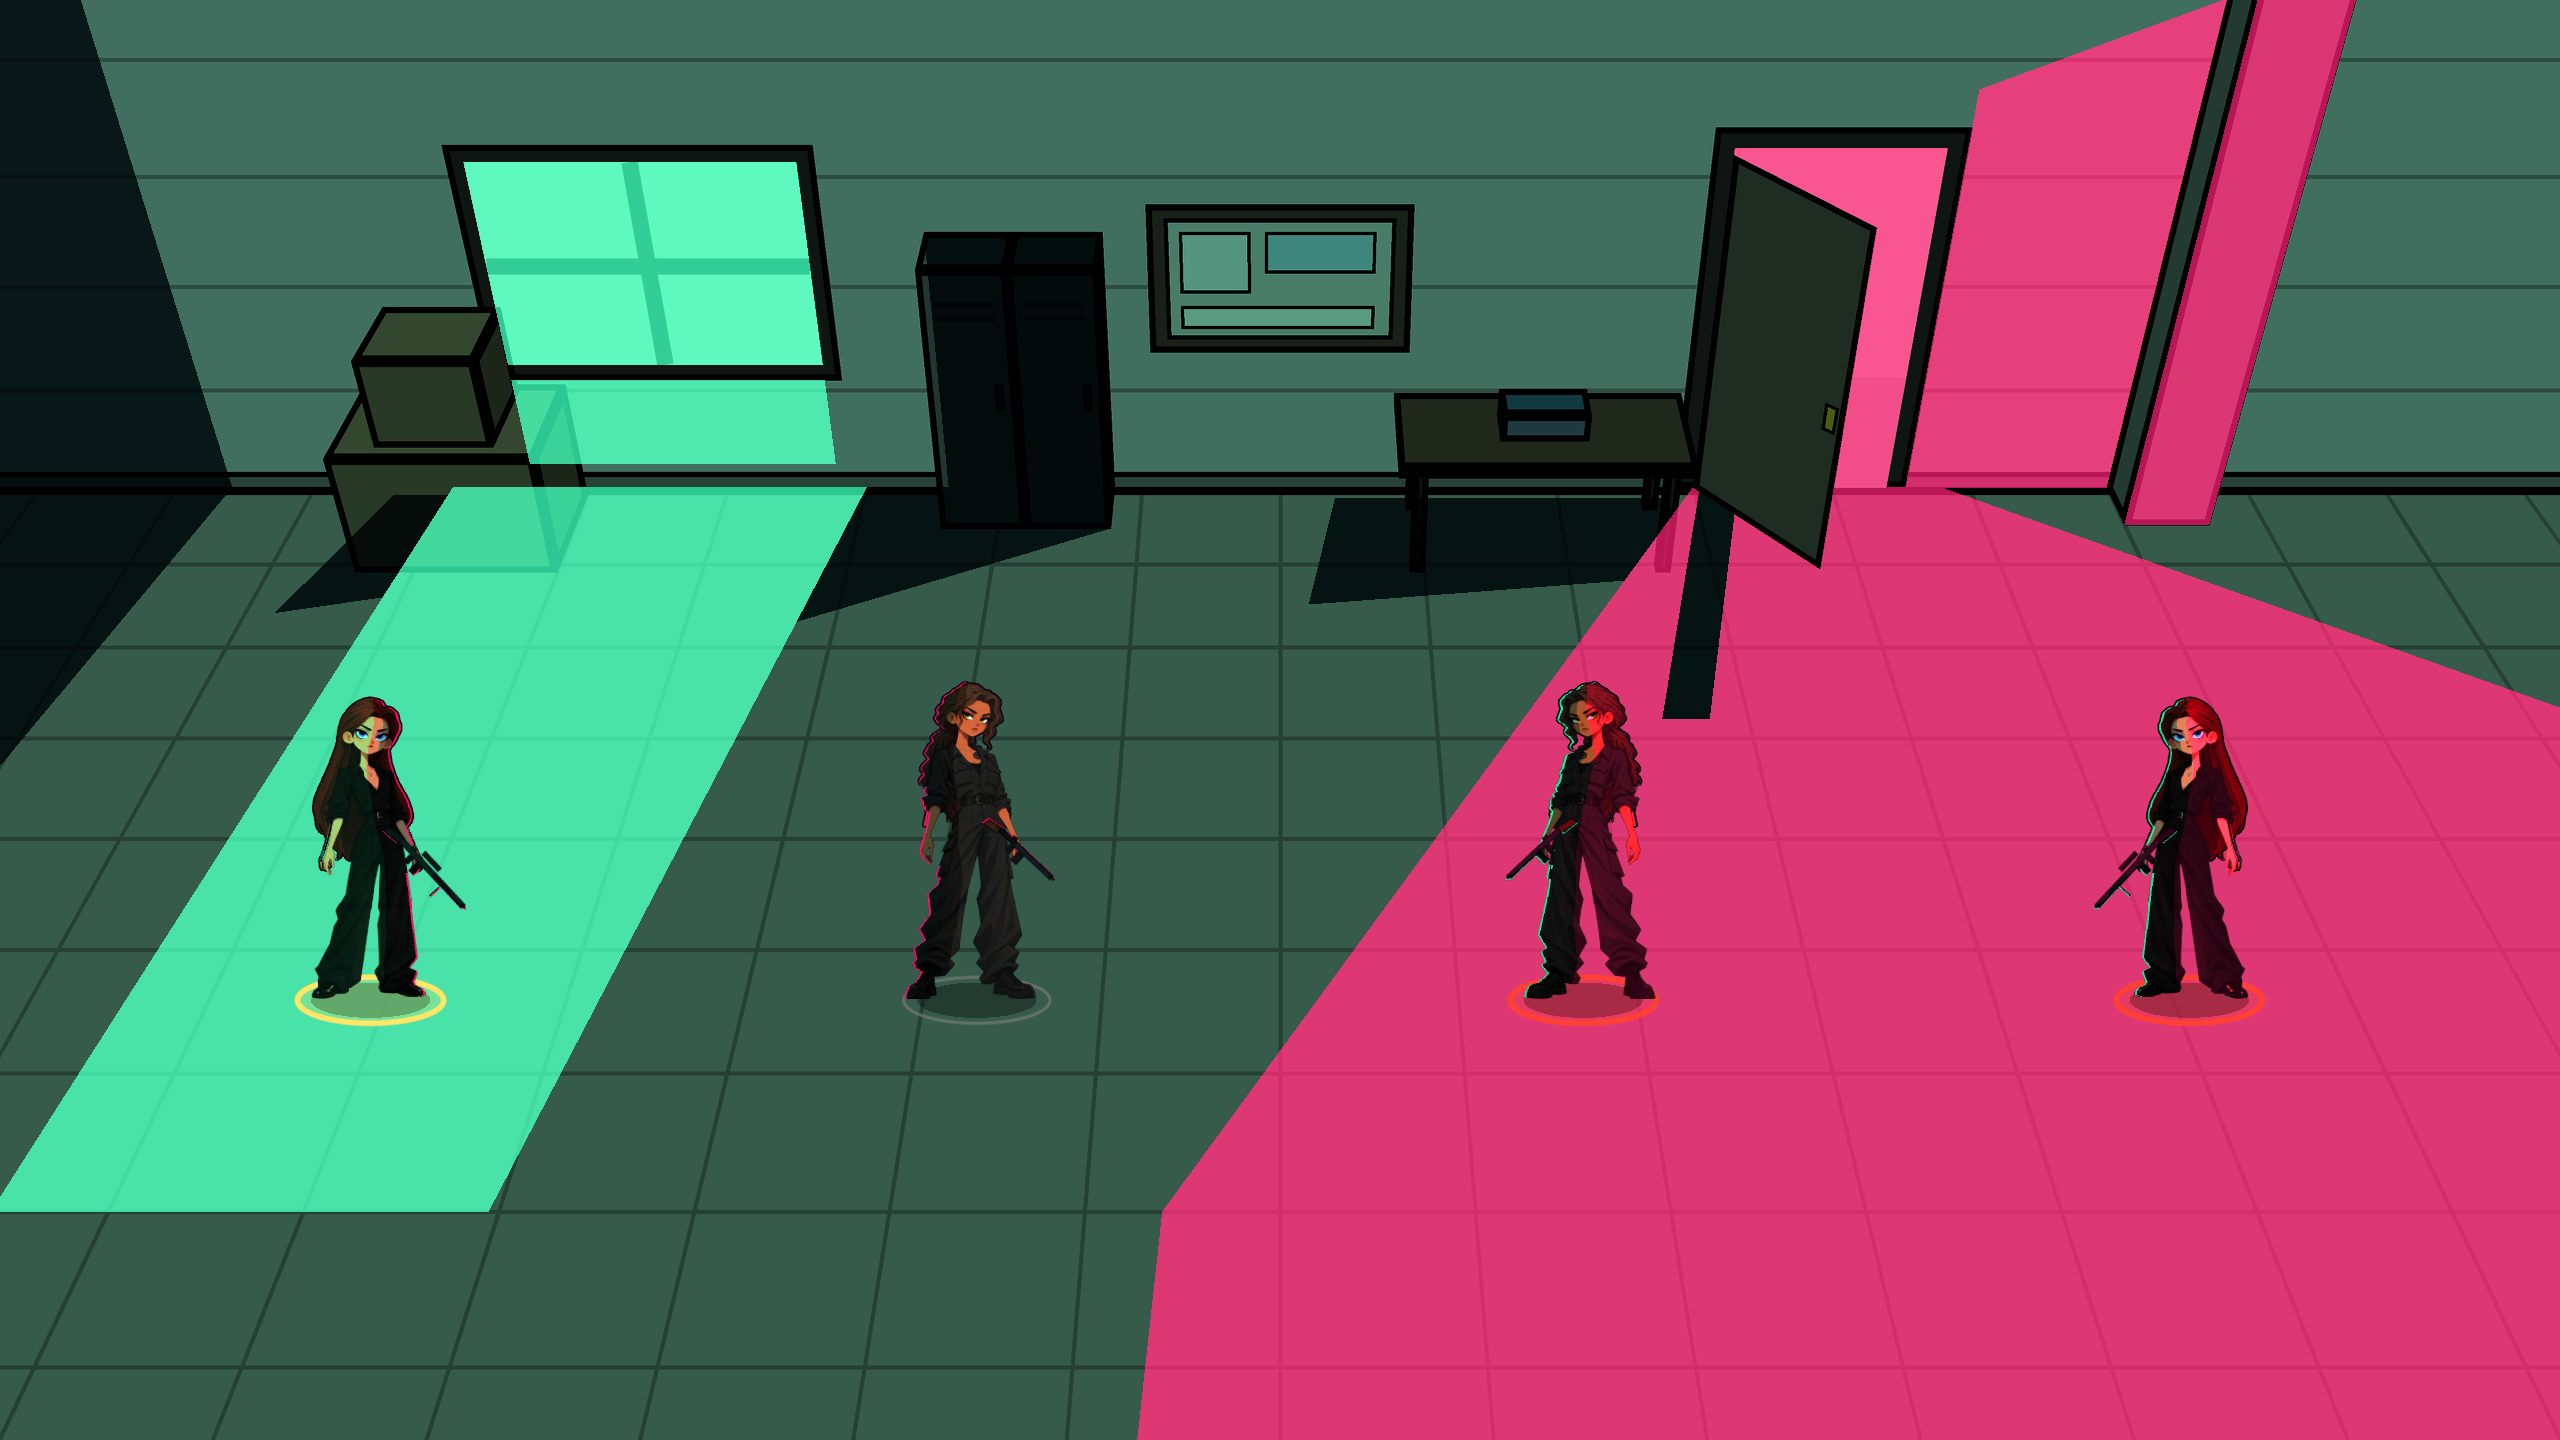
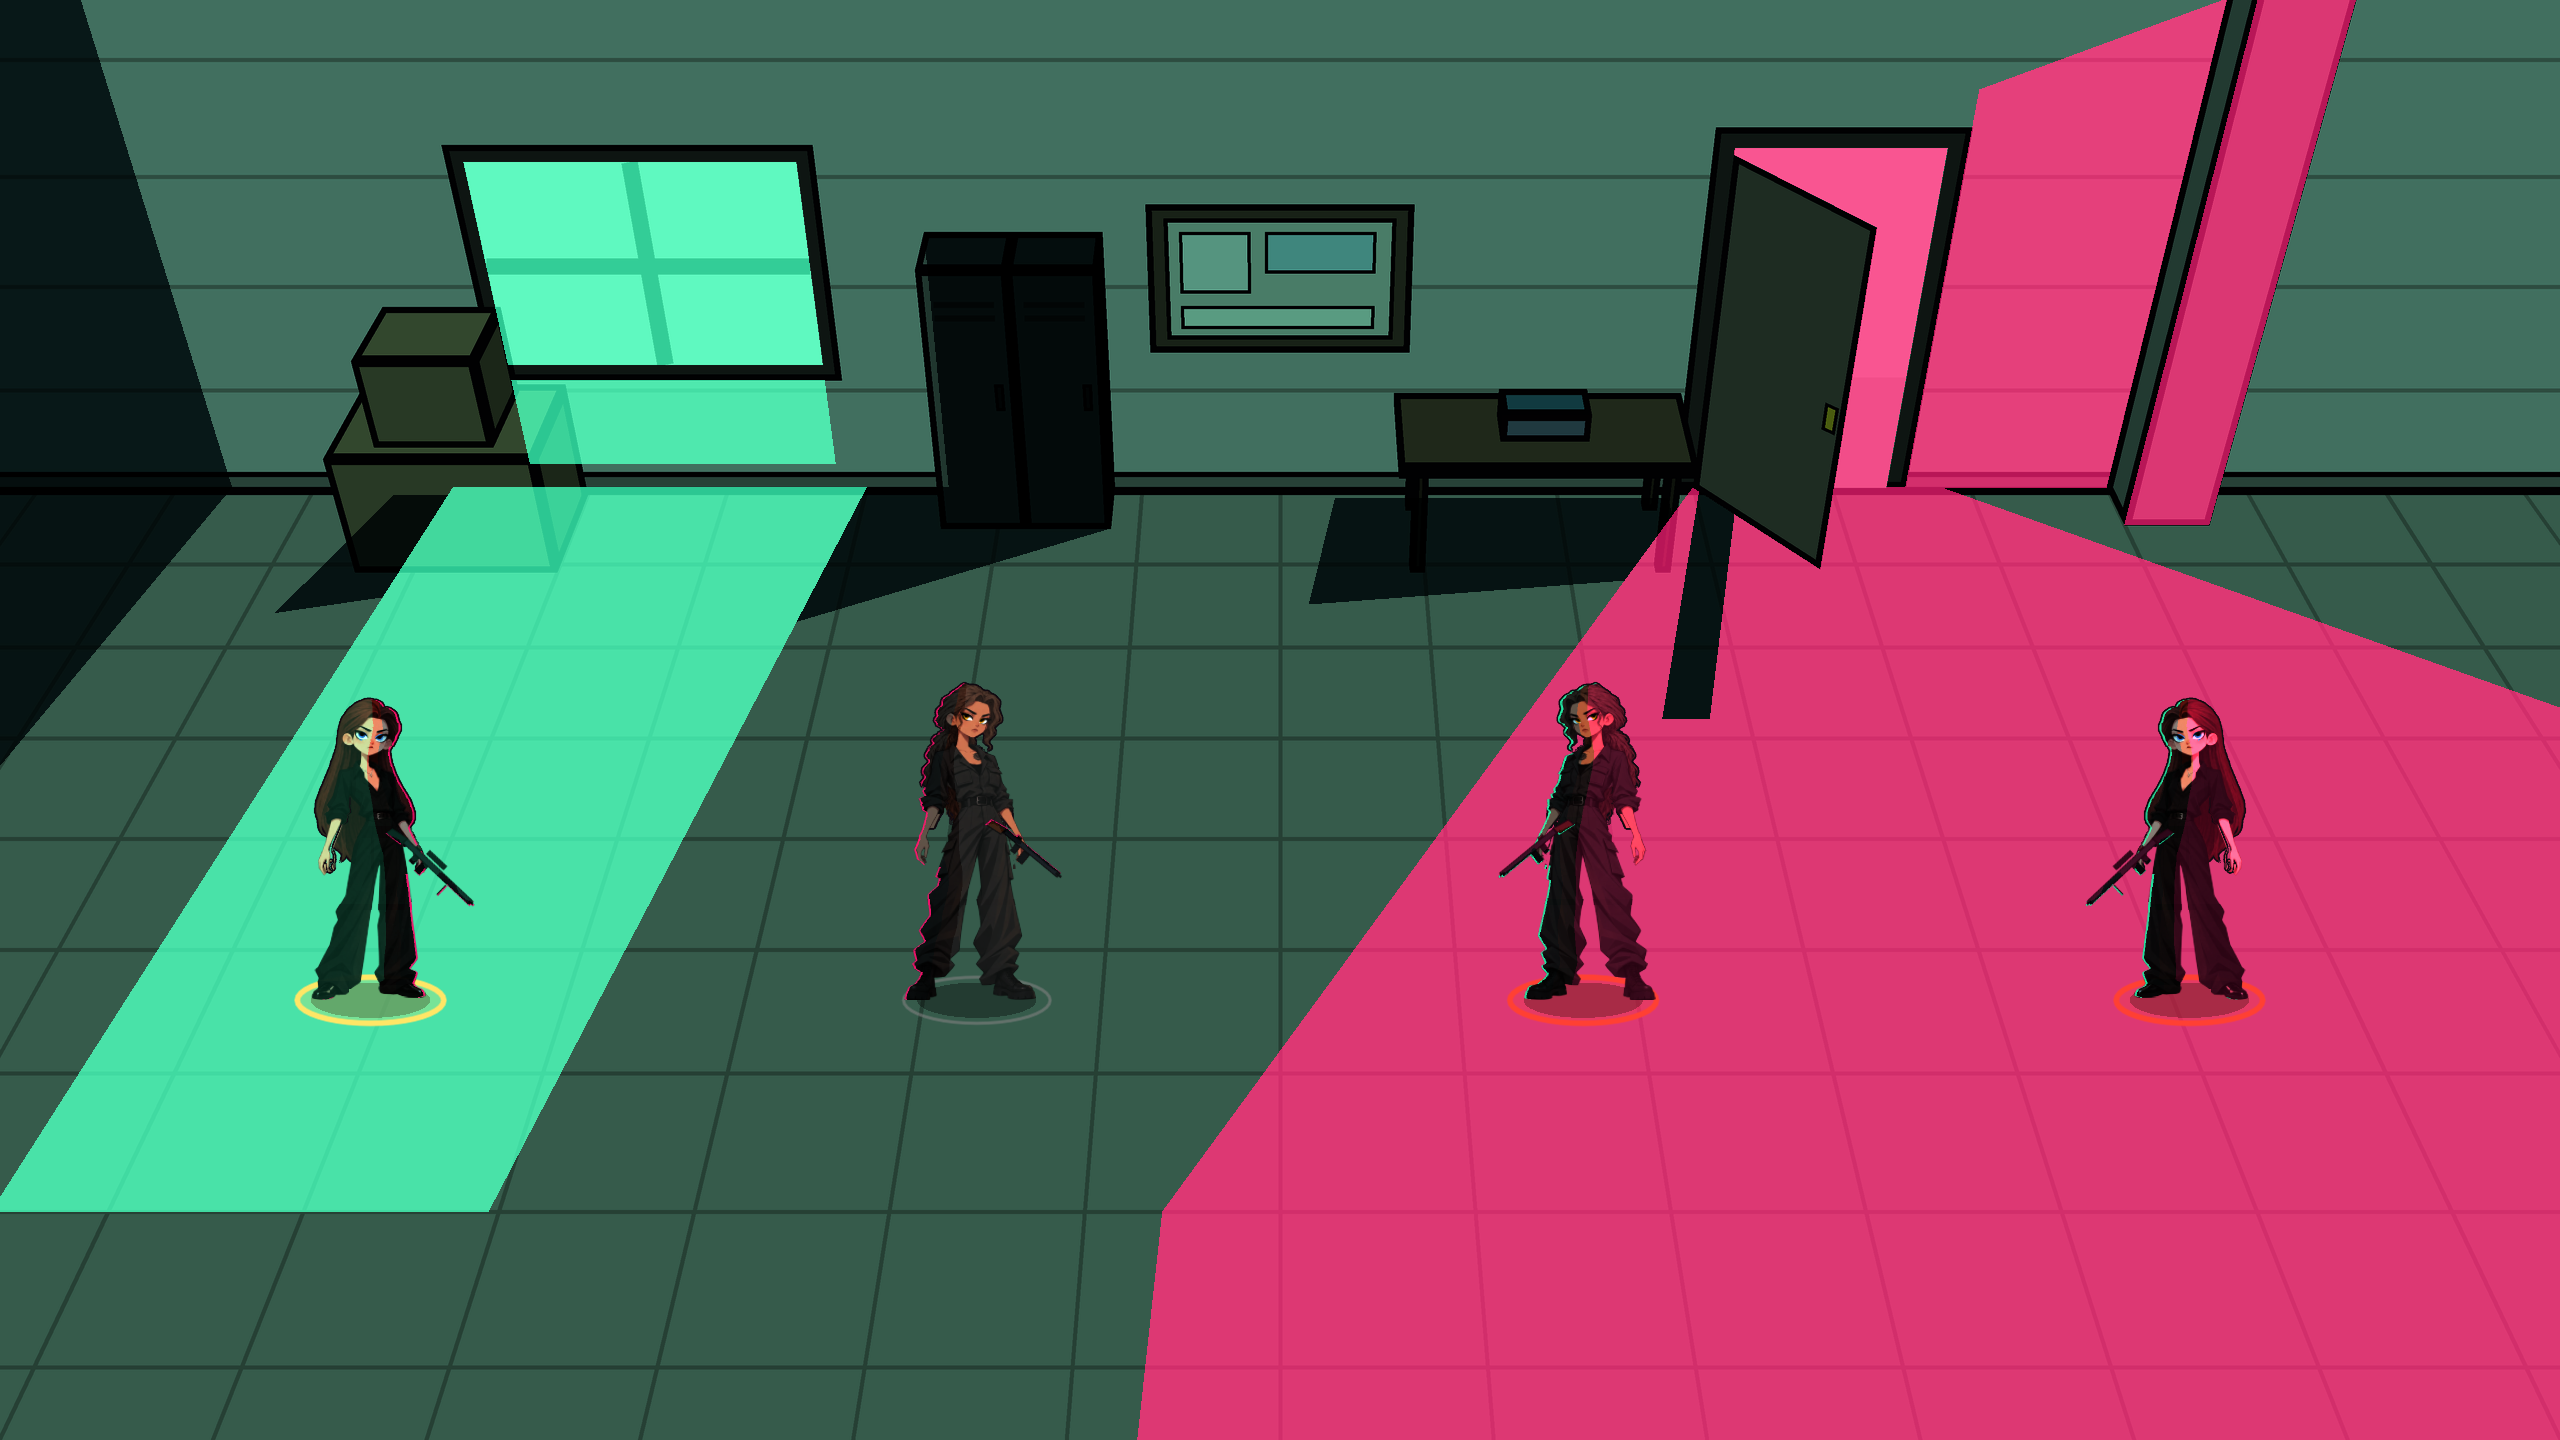
캐릭터 셰이더 v4: 원화 색·명암 보전 + 쨍한 셀 명암
- 곱하기(보색 조명에서 원화가 어두워짐)·스크린(어두운 의상에 회색 막) 제거
- 빛 받는 면: 원화 픽셀 밝기 유지한 채 광원 색상 쪽으로 이동 + 15% 밝게 + 광원색 소량 가산(검정 옷에도 빛이 맺힘)
- 주변광: 원화 거의 그대로(8%), 그림자: 원화 밝기 78% + 그림자 색상 40%, 마스크로 하드 에지
- 디버그 CLI: --charview=1(원화 그대로), --outline=0, --nogroup=1
- 비교 이미지(원화/이전/이후) docs/screenshots/compare/tone4_compare_g1·g3.png, 결정 로그 기록

Claude-Session: https://claude.ai/code/session_014aytw3hj7boqn3SZ5GP5ti

diff --git a/docs/design/00_decision_log_v1_0.md b/docs/design/00_decision_log_v1_0.md
@@ -21,6 +21,8 @@
 - 제공 캐릭터 이름·키: **하나 176.8cm**, **니키타 168cm** (하나가 더 큼). 화면 크기에 키 비율 반영.
   (이름↔원화 매칭은 확인 필요: 현재 곱슬 롱헤어·짙은 회색 전투복 = 하나, 붉은 스트레이트 롱헤어·검정 셔츠(소매 걷음)·와이드 슬랙스 = 니키타로 가정)
 
+- 캐릭터 라이팅 원칙: **원화 색과 명암 보전**, 조명은 색상 이동 + 빛 받는 면에 광원색 소량 가산 + 하드 에지 셀 그림자(원화 밝기 78%). 곱하기·스크린으로 원화를 덮지 않음 (`cel_character.gdshader` v4).
+
 ## 검증 중 (확정 아님)
 - Skeleton2D 컷아웃 리그: 제공 캐릭터 1명으로 비용 테스트 중 (`docs/skeleton2d_cost.md`). 애니메이션 방식(프레임/본/혼합)은 미정.
 - 외곽선 렌더 비용: 소프트웨어 렌더 기준 증가 확인, 실기기(맥북) 측정 필요.

diff --git a/README.md b/README.md
@@ -75,6 +75,7 @@ AP 상한 버림/이월/0 자동 종료, 이동/교환 AP 1, 무기 변경 AP 1,
 GODOT=/path/to/godot tools/render_shots.sh docs/screenshots      # Xvfb + Mesa 소프트웨어 렌더
 ```
 CLI 인자(`++` 뒤): `--scene=battle|formation|result|menu --mode=2d|3d --preset=g1..g4 --shot=경로 --autoplay=aim|move|fight:N --hud=0`.
+디버그: `--charview=1`(캐릭터 원화를 조명 없이 출력), `--outline=0`(외곽선 끔), `--rim=0`(림 끔).
 
 ## 폴더
 ```
